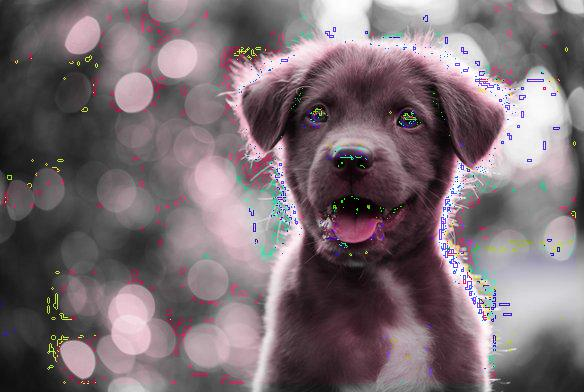
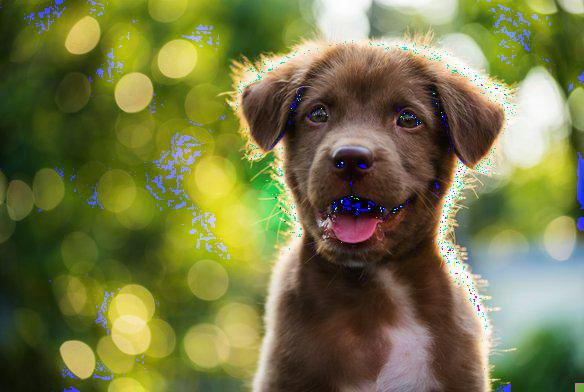
improved color model conversions

diff --git a/jpeg_coder.py b/jpeg_coder.py
@@ -56,9 +56,14 @@ class jpeg_coder:
                 r = pixels[i, j][0]
                 g = pixels[i, j][1]
                 b = pixels[i, j][2]
-                y = 0.299*r + 0.587*g + 0.114*b
-                u = 0.492* (b-y)
-                v = 0.877 * (r-y)
+                #y = (0.299*r) + (0.587*g) + (0.114*b)
+                #u = 0.492* (b-y)
+                #v = 0.877 * (r-y)
+                #u = (-0.299*r) - (0.587*g) + (0.886*b) 
+                #v = (0.701* r) - (0.587*g) - (0.114*b)
+                y = r *  .299000 + g *  .587000 + b *  .114000
+                u = r * -.168736 + g * -.331264 + b *  .500000 + 128
+                v = r *  .500000 + g * -.418688 + b * -.081312 + 128
                 pixels[i,j] = (int(y),int(u),int(v))
         #img.show()
         return img
@@ -99,6 +104,78 @@ class jpeg_coder:
                                         + (recover[(a + 1)][(b - 1)] + recover[(a - 1)][(b + 1)]) // 2) // 2
 
         return recover
+
+    def recover_uv_v2(self, matrix, r, c):
+    # r & c are the dimensions of the Y matrix, as u&v may have been truncated
+        recover = np.empty([r, c])
+
+        # calculate size of new temp array
+        size_r = r // 2
+        size_c = c // 2
+        last_col = c - 1
+        last_row = r - 1
+        temp = np.zeros((size_r, size_c))
+
+        # calculate amount of padding to add
+        mat_rows, mat_cols = matrix.shape
+        pad_r = size_r - mat_rows
+        pad_c = size_c - mat_cols
+
+        # account for all 4 possibilities of matrix resizing
+        if pad_r != 0 and pad_c != 0:
+            temp[:-pad_r, :-pad_c] = matrix
+        elif pad_r != 0:
+            temp[:-pad_r, :] = matrix
+        elif pad_c != 0:
+            temp[:, :-pad_c] = matrix
+        else:
+            temp = matrix
+
+        # fill in padded columns
+        for i in range(mat_cols, size_c, 1):
+            for j in range(size_r):
+                temp[j, i] = temp[j, (mat_cols-1)]
+
+        # fill in padded rows
+        for i in range(mat_cols):
+            for j in range(mat_rows, size_r, 1):
+                temp[j, i] = temp[(mat_rows-1), i]
+
+
+        for a in range(0, r, 2):
+            for b in range(c):
+                if a % 2 == 0 and b % 2 == 0:  # top left square
+                    recover[a][b] = temp[(a // 2)][(b // 2)]
+
+                elif a % 2 == 0 and b % 2 == 1:  # top right square
+                    if b == last_col:  # last column
+                        recover[a][b] = recover[a, (b - 1)]
+                    else:
+                        recover[a][b] = (recover[a][(b - 1)] + temp[(a // 2)][((b // 2) + 1)]) // 2
+
+
+        for a in range(1, r, 2):
+            for b in range(c):
+                if a % 2 == 1 and b % 2 == 0:  # bottom left square
+                    if a == last_row:  # last row, even column
+                        recover[a][b] = recover[(a - 1)][b]
+                    else:
+                        recover[a][b] = (recover[(a - 1)][b] + recover[(a + 1)][b]) // 2
+
+                elif a % 2 == 1 and b % 2 == 1:  # bottom right square
+                    if b == last_col and a == last_row:  # last row, last column
+                        recover[a][b] = recover[(a - 1)][(b - 1)]
+                    elif b == last_col:  # last column
+                        recover[a][b] = (recover[(a - 1)][(b - 1)] + recover[(a + 1)][(b - 1)]) // 2
+                    elif a == last_row:  # last row
+                        recover[a][b] = (recover[(a - 1)][(b - 1)] + recover[(a - 1)][(b + 1)]) // 2
+                    else:
+                        recover[a][b] = (((recover[(a - 1)][(b - 1)] + recover[(a + 1)][(b + 1)]) // 2)
+                                        + (recover[(a + 1)][(b - 1)] + recover[(a - 1)][(b + 1)]) // 2) // 2
+
+
+        return recover
+
     # Recouver UV values using single pass
     # WORK ON THIS
     #array[rows, cols]
@@ -167,7 +244,7 @@ class jpeg_coder:
 
 
     def yuv_merge(self, y, u, v, rows, cols):
-        merged_yuv = np.zeros((rows, cols,3), dtype=np.uint8)
+        merged_yuv = np.zeros((rows, cols,3), dtype=np.float64)
         for i in range(0,rows):
             for j in range(0,cols):
                 merged_yuv[i,j][0] = int(y[i,j])
@@ -201,29 +278,29 @@ class jpeg_coder:
                 y = matrix[i,j][0]
                 u = matrix[i,j][1]
                 v = matrix[i,j][2]
-                #if((y + (1.140*v))> 255 ):
-                #r = 255
+                
+                #if((v + y) > 255):
+                #    print('r is bigger than 255')
+                ##    r = 255
                 #else:
-                #    r = y + (1.140*v)
-                #if((y - (0.395*u) - (0.581*v)) > 255):
-                #    g = 255
-                #else:
-                #    g = y - (0.395*u) - (0.581*v)
-                #if((y + (2.032*u)) > 255):
+                #    r = v + y 
+
+                #if((u + y) > 255):
+                #    print('b is bigger than 255')
                 #    b = 255
                 #else:
-                #    b = y + (2.032*u)
-                if((v + y) > 255):
-                    r = 255
-                else:
-                    r = v + y 
-
-                if((u + y) >255):
-                    b = 255
-                else:
-                    b = u + y
-                g = (y -(0.299*r) -(0.114*b))/0.587
+                #    b = u + y
+                #if((y -(0.299*r) - (0.114*b))/0.587 > 255):
+                #    print('g is bigger than 255')
+                #    print((y -(0.299*r) - (0.114*b))/0.587)
+                #    g = 255
+                #else:
+                 #   g = (y -(0.299*r) - (0.114*b))/0.587
+                r = y + 1.4075 * (v - 128)
+                g = y - 0.3455 * (u - 128) - (0.7169 * (v - 128))
+                b = y + 1.7790 * (u - 128)
                 
+
                 rgb_matrix[i,j][0] = int(r)
                 rgb_matrix[i,j][1] = int(g)
                 rgb_matrix[i,j][2] = int(b)
@@ -560,8 +637,8 @@ class jpeg_coder:
         # recover pixels so that |J,K| == |M,N|
         #RECOUVER MAY BE THE SOURCE OF BUG
 
-        recouvered_u_matrix = self.recouver_uv(decompressed_u_pixels, rows, cols)
-        recouvered_v_matrix = self.recouver_uv(decompressed_v_pixels, rows, cols)
+        recouvered_u_matrix = self.recover_uv_v2(decompressed_u_pixels, rows, cols)
+        recouvered_v_matrix = self.recover_uv_v2(decompressed_v_pixels, rows, cols)
 
         recovered_u = Image.fromarray(recouvered_u_matrix)
         recovered_u.show()
@@ -650,7 +727,7 @@ class jpeg_coder:
 if __name__ == '__main__':
 
     jpeg = jpeg_coder(0.1)
-    jpeg.encode('./src/assets/images/lena.ppm')
+    jpeg.encode('./src/assets/images/mountain.png')
     
 
 
